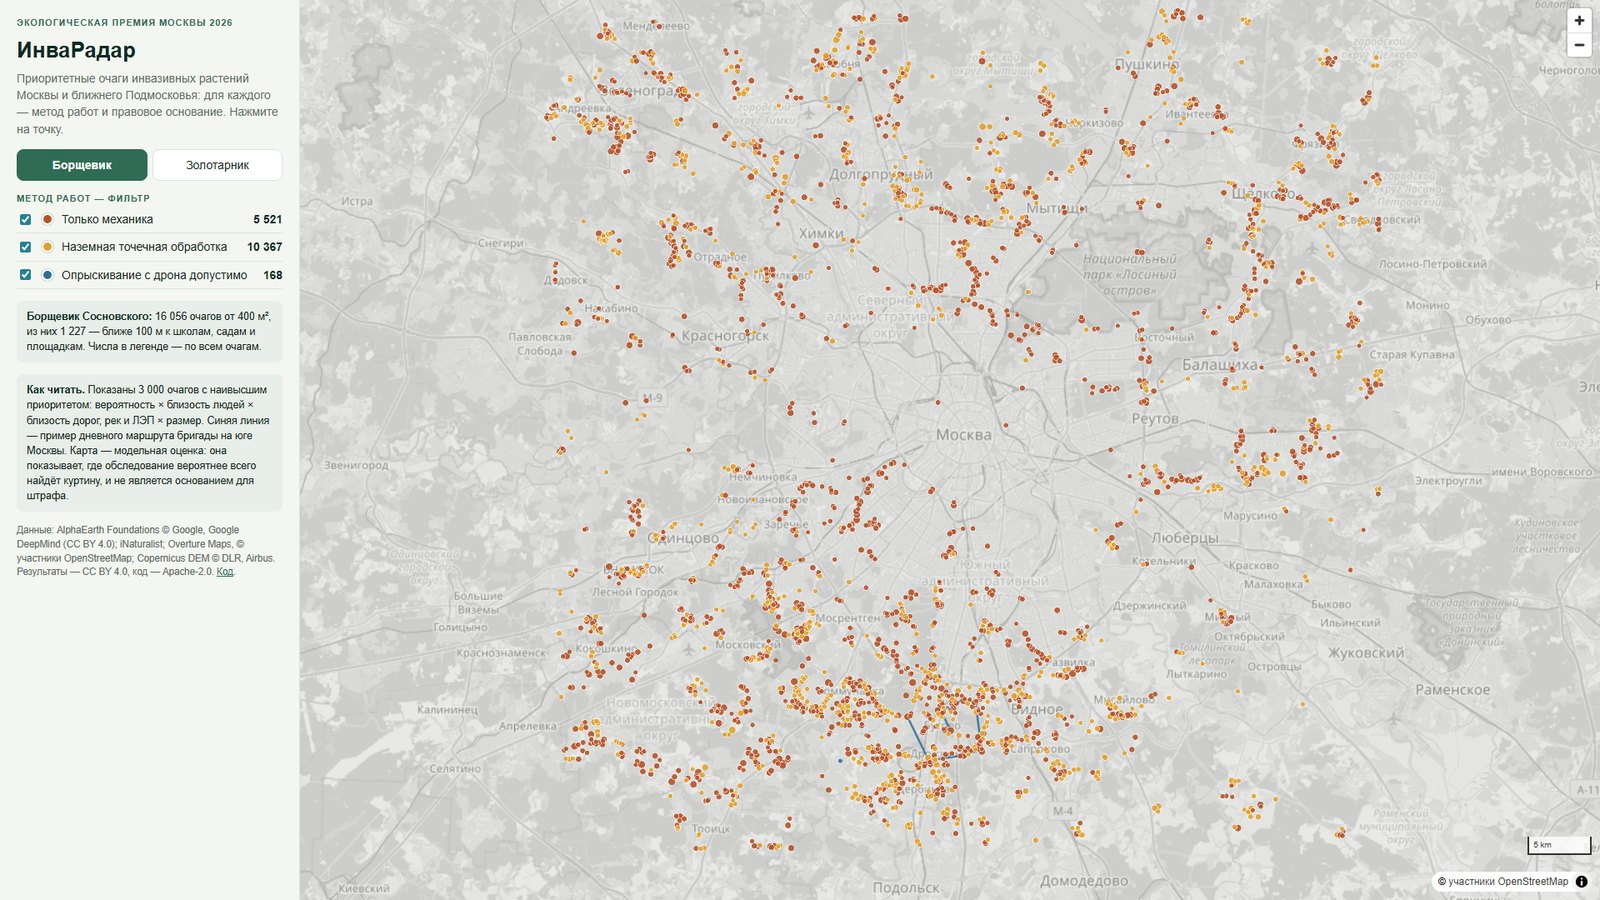
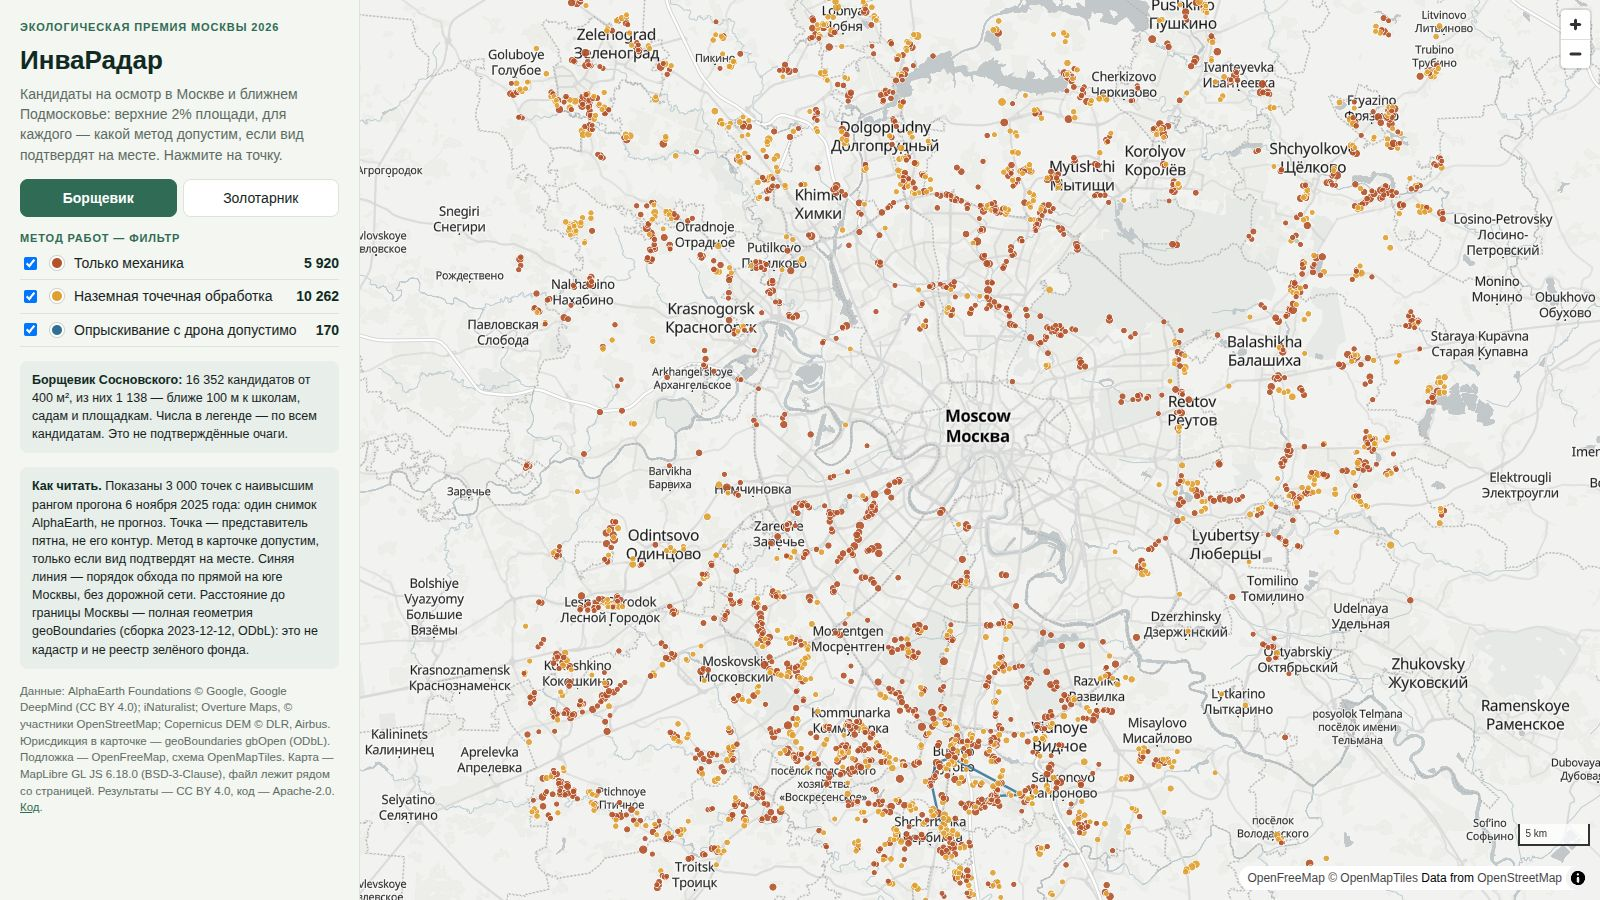
Keep Pages deploys on main and point the docs at the new basemap.
The github-pages environment refused this branch after the artifact uploaded. The README screenshot is the local page.

diff --git a/CHANGELOG.md b/CHANGELOG.md
@@ -20,7 +20,7 @@
 - Исходники слайдов называют ту же глубину подрезки. В строке качества подачи — 11 тестов Rust, как в README. Уже собранные PDF эти правки не содержат: LibreOffice в этой сборке не ставился.
 
 ### Сборка
-- CI ставит зависимости Pro (`pyyaml`, `pillow`) и гоняет его тесты вместе с остальными. Публикация страниц разнесена на две работы: сборка вызывает `upload-pages-artifact` v5, публикация — `deploy-pages` v5 и начинается только после сборки. В одной работе эти два действия v5 не находят архив друг друга. На GitHub этот сценарий ещё не прогонялся. В `web/` нет скрытых файлов, которые v5 мог бы выкинуть.
+- CI ставит зависимости Pro (`pyyaml`, `pillow`) и гоняет его тесты вместе с остальными. Публикация страниц разнесена на две работы: сборка вызывает `upload-pages-artifact` v5, публикация — `deploy-pages` v5 и начинается только после сборки. В одной работе эти два действия v5 не находят архив друг друга. Сборка на ветке запроса загрузила архив. Среда `github-pages` публикацию отклонила: она принимает только `main`, поэтому живой сайт обновится после слияния. В `web/` нет скрытых файлов, которые v5 мог бы выкинуть.
 
 ### Исправлено
 - Расстояние до соседнего очага считается деревом ближайших точек, тем же евклидовым минимумом, что и раньше.

diff --git a/README.en.md b/README.en.md
@@ -70,7 +70,7 @@ Project video: [github.com/KonkovDV/InvaRadar/blob/main/presentation/invaradar_v
 
 [![InvaRadar web map: priority hogweed stands coloured by control method](docs/assets/web_map.jpg)](https://konkovdv.github.io/InvaRadar/)
 
-<sub>Rust: mechanical only. Amber: ground spot treatment. Blue: drone spraying allowed. Basemap © OpenStreetMap contributors. The interface is in Russian.</sub>
+<sub>Rust: mechanical only. Amber: ground spot treatment. Blue: drone spraying allowed. Basemap: OpenFreeMap © OpenMapTiles, data © OpenStreetMap contributors. The interface is in Russian.</sub>
 
 | You are | Read |
 |---|---|
@@ -247,7 +247,7 @@ docs/           science, experiments, model and data cards, landscape, plan, sou
 - **Rust 2024**, minimum 1.89: `rayon`, `memmap2`, `serde_json`, `anyhow`. One multithreaded pass over the mosaic. The 64-channel sums live in `core-rs/src/kernel.rs`: AVX-512 or AVX2, same order as the scalar loop.
 - **Python**: LightGBM, scikit-learn, GeoPandas, Shapely, rasterio, pyproj, PyArrow. Drone module: PyTorch and timm (`.[drone]`). Photo classifier: Ultralytics (`.[photo]`).
 - **Formats**: Cloud Optimized GeoTIFF, GeoParquet, STAC 1.1.
-- **Web map**: MapLibre GL over OpenStreetMap, published with GitHub Pages.
+- **Web map**: MapLibre GL JS 6.18.0 stored next to the page, the OpenFreeMap Positron vector style, published with GitHub Pages.
 - **CI**: `cargo fmt`, `clippy -D warnings`, `cargo test`, `ruff`, `pytest` on Python 3.11, 3.12 and 3.13.
 
 ## Documents
